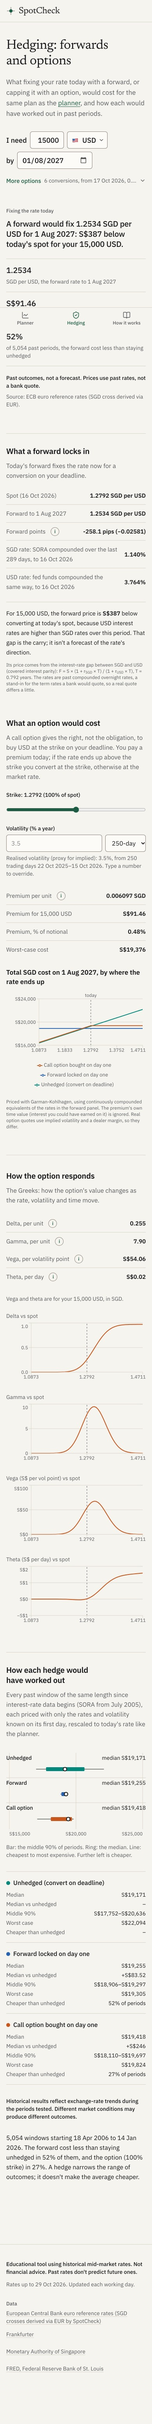
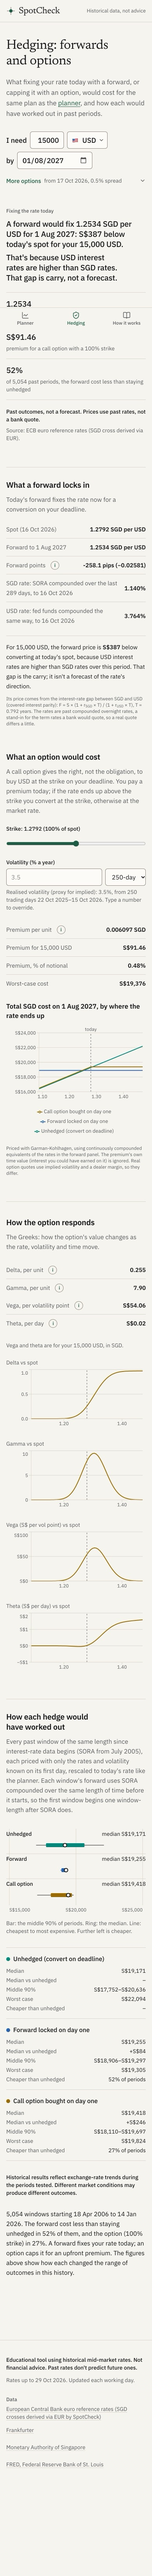
docs: final review round: before/after at 375px, finals, checks
DESIGN.md records the hedge colour mapping, touch readouts and the number
rules. rounds-d holds before (the reviewed preview) and after images for
each fix, the final screenshots, Lighthouse and the parity result.

Changed region(s): [[0.0308, 0.0, 0.9538, 0.9677], [0.8308, 0.4994, 0.9538, 0.5307], [0.8308, 0.1873, 0.8615, 0.2185]]

diff --git a/docs/design/rounds-d/README.md b/docs/design/rounds-d/README.md
@@ -1,0 +1,45 @@
+# Final review round of PR #8
+
+Nineteen fixes from a review on desktop, at 375px and on a real iPhone. `before-375/` is the branch as reviewed: the Cloudflare preview at commit `bca8ee5`, captured at 375×812 (2× pixels) in light and dark. `after-375/` is the same states on the fixed build. `final/` is the usual 390×844 and 1366×768 set for all three pages, light and dark. Full pages are in `../final/`.
+
+| File                   | Shows                                                                                                                |
+| ---------------------- | -------------------------------------------------------------------------------------------------------------------- |
+| `375-planner-top-*`    | The header disclaimer on a phone (5); the converter without empty space (19)                                         |
+| `375-timeline-*`       | The taller timeline with an axis fitted to the data (8)                                                              |
+| `375-period-*`         | The period chart after a tap, with the readout (6), and conversions one per line (9)                                 |
+| `375-comparison-*`     | "S$19,284 (fixed)" (14) and whole-dollar differences (12)                                                            |
+| `375-hedging-top-*`    | The carry reason under the headline (3) and Hedging's own More options (10)                                          |
+| `375-payoff-readout-*` | A tap on the payoff chart: the readout instead of a sticky tooltip (6), round ticks and the option's own colour (15) |
+
+## The fixes
+
+| #   | Before                                                                                             | After                                                                                                                                                                                                                   |
+| --- | -------------------------------------------------------------------------------------------------- | ----------------------------------------------------------------------------------------------------------------------------------------------------------------------------------------------------------------------- |
+| 1   | "A hedge narrows the range of outcomes; it doesn't make the average cheaper."                      | "A forward fixes your rate today; an option caps it for an upfront premium. The figures above show how each changed the range of outcomes in this history."                                                             |
+| 2   | Pairwise sentences ("spreading over 6 conversions had a most expensive case … lower than waiting") | One template per strategy, in the fixed order, against all at once only: median vs all at once, middle 90%, worst case, % of windows cheaper. The target's hit rate is the one extra clause.                            |
+| 3   | The forward headline without a reason                                                              | "That's because USD interest rates are higher than SGD rates. That gap is carry, not a forecast.", directly under it in the same style                                                                                  |
+| 4   | "A real quote differs, and it is only available for USD so far."                                   | "A real quote differs. The Hedging page covers USD only for now."                                                                                                                                                       |
+| 5   | "Historical data, not advice" hidden below 1024px                                                  | Shown at every width (13px on phones); e2e checks it at 375px on all three pages                                                                                                                                        |
+| 6   | Recharts tooltips stuck open after a tap, covering the chart                                       | On touch screens: no floating box; a readout row under the payoff, Greek and period charts shows the tapped values. Payoff chart 288px tall on phones.                                                                  |
+| 7   | "Earlier month" went from 28 Jan to 15 Dec (bucket to bucket)                                      | "One month earlier/later" moves to the same calendar day, or the nearest trading day (28 Jan → 29 Dec, since 28 Dec was a Sunday); unit-tested                                                                          |
+| 8   | A short phone timeline with a S$16k–S$24k axis                                                     | 280px on phones (300px on laptops); the axis fits the data with a 5% margin (S$17k–S$22k)                                                                                                                               |
+| 9   | All of Equal tranches' conversions in one run-on cell                                              | One line each: "14 Jan 2026 · 1.2880"                                                                                                                                                                                   |
+| 10  | Hedging's More options showed conversions and target                                               | Only what Hedging uses: start date and spread                                                                                                                                                                           |
+| 11  | "2.0%"                                                                                             | "2%" everywhere a setting is shown                                                                                                                                                                                      |
+| 12  | "−S$84.95", "within S$84.95" next to whole-dollar costs                                            | One precision per scenario: whole dollars (e.g. "−S$85") unless the scenario costs under S$100 (then cents throughout). Rates, pips, the premium and Greeks keep decimals.                                              |
+| 13  | "Today's mid rate"                                                                                 | "Latest mid rate". The data is not stale: the branch contains every main commit. The ECB publishes around 16:00 CET and the fetch runs at 03:00 UTC the next morning, so the latest rate is the previous working day's. |
+| 14  | "S$19,284–S$19,284"                                                                                | "S$19,284 (fixed)"                                                                                                                                                                                                      |
+| 15  | " : " in tooltips; ticks 1.0894/1.1855/…; the option in Equal tranches' orange                     | ": "; ticks 1.10, 1.20, 1.30, 1.40; the call option in its own validated bronze. Unhedged keeps Wait until deadline's teal and Forward keeps All at once's blue on purpose (DESIGN.md §2).                              |
+| 16  | No explanation of a positive theta                                                                 | The theta tip explains why it can be positive; a unit test pins +S$0.02/day at the money, about +S$1.6/day in the money, and negative when the carry reverses                                                           |
+| 17  | `/hedging` was a 404; the 404 reused the homepage title                                            | `public/_redirects`: `/hedging` → `/advanced` (301), and `/advanced` itself is untouched. The 404 page's title is "Page not found \| SpotCheck".                                                                        |
+| 18  | "SORA from July 2005" with windows from 3 Apr 2006, unexplained                                    | Adds that each window's forward uses SORA compounded over the window's length before it starts, so the first window begins one window-length after SORA does                                                            |
+| 19  | Empty space under More options on a 375px phone                                                    | The converter's minimum height now matches its content at 375px (281px); only phones under 370px reserve the taller height                                                                                              |
+
+## Checks on the final build
+
+- `npm run check`: 356 unit tests; data valid.
+- Playwright: 78 passed. That covers desktop, the Pixel 7 project and a new 375px touch suite (disclaimer, touch readouts, month step, timeline height, conversions per line).
+- axe-core: 0 violations at 390×844 and 1366×768, light and dark, on all three pages.
+- Parity with the live site, same data: identical for USD, JPY and EUR. That is 42 planner figures each, plus all 13 Hedging values for USD.
+- Lighthouse mobile: Planner 96, Hedging 91, How it works 98. Accessibility 100 and CLS 0 on every run.
+- Throttled trace (412px, slow 4G, 4× CPU): no layout shifts on any page, How it works included.

diff --git a/DESIGN.md b/DESIGN.md
@@ -51,6 +51,14 @@ Validated with the dataviz palette checker (lightness band, chroma, colour-blind
 
 The brand green is deliberately not a strategy colour, so no strategy looks "approved".
 
+Hedging reuses two planner colours on purpose and adds one of its own:
+
+| Hedge       | Colour                                   | Why                                                                        |
+| ----------- | ---------------------------------------- | -------------------------------------------------------------------------- |
+| Unhedged    | slot 3 (Wait until deadline)             | It is the same strategy: convert everything on the deadline                |
+| Forward     | slot 1 (All at once)                     | Both fix the whole cost on day one                                         |
+| Call option | `--series-option`: `#9A6B00` / `#B88520` | Its own colour; no planner strategy uses it (validated with the two above) |
+
 ## 3. Typography
 
 Two families, self-hosted with `next/font` (the CSP keeps `font-src 'self'`), one file each:
@@ -72,6 +80,12 @@ Two families, self-hosted with `next/font` (the CSP keeps `font-src 'self'`), on
 | Data medium | Plex       | 500    | 22 / 28             | 20 / 26 | Secondary figures, the converter field |
 
 Sentence case everywhere. No all-caps eyebrows, no letter-spaced labels.
+
+### Numbers
+
+- **Money:** every S$ figure in one scenario uses the same precision: whole dollars when the scenario costs S$100 or more (differences too: "−S$85"), cents when it costs less (15,000 VND is about S$0.74). The exceptions are per-unit rates, pips, the option premium and the Greeks, which keep their decimals.
+- **Settings as percentages:** shown without trailing zeros ("2%", "0.5%").
+- **A fixed cost:** a strategy with no range reads "S$19,321 (fixed)", not "S$19,321–S$19,321".
 
 ## 4. Space, layout and shape
 
@@ -133,7 +147,8 @@ One chart language across both pages:
 - **Lines and bars:** lines 2px. The middle-90% bars are 10px tall with 2px corners, the median dot is 9px with a 2px `--surface` ring, and the full-range whisker is a 1.5px `--muted` line.
 - **Highlight:** hovering or focusing a strategy (a chart row, a legend item, a glance row, a table row) previews it; clicking pins it (`aria-pressed`); clicking again unpins. The others dim over 150ms: chart rows to 30% opacity, table rows to 40–45%, and the timeline lines to 15%. Nothing is ever highlighted automatically.
 - **Tooltips:** `--surface`, 1px `--rule` border, 8px radius and `--shadow-pop`. They show the period in bold, then one row per strategy in the fixed order: swatch, name, cost and its difference from all at once. No row is singled out.
-- **Touch:** on touch screens, dragging horizontally across the timeline scrubs it and lifting selects the period. Vertical drags still scroll the page.
+- **Touch:** on touch screens, dragging horizontally across the timeline scrubs it and lifting selects the period. Vertical drags still scroll the page. The Recharts charts (period detail, payoff, Greeks) show no floating tooltip on touch, because it stays open and covers the chart. A fixed readout row under each chart shows the tapped values instead.
+- **Axes:** rate axes use round ticks (1.10, 1.20, …), kept inside the plotted range. The timeline's cost axis fits the data with a 5% margin rather than stretching to whole tick steps.
 - **States:** a chart's space is held by a `--sunken` block of the same height while it loads. An error replaces it with a one-line message in `--negative`.
 - **Accessibility:** every chart has a text equivalent: the comparison table, the conversions table, a slider with a spoken value, or a summary label.
 

diff --git a/docs/design/lighthouse.md b/docs/design/lighthouse.md
@@ -1,18 +1,18 @@
 # Lighthouse (mobile)
 
-Lighthouse 12.8.2, mobile form factor, simulated throttling (the default), headless Chromium. Runs are against the static build, served with compression by `scripts/serve-out.ts`. Three runs per page on the final build of the neutral revision of PR #8, 1 Nov 2026.
+Lighthouse 12.8.2, mobile form factor, simulated throttling (the default), headless Chromium. Runs are against the static build, served with compression by `scripts/serve-out.ts`. Three runs per page on the final build of the last review round of PR #8, 31 Oct 2026.
 
 | Page         | Run | Performance | Accessibility | Best practices | SEO | FCP   | LCP   | TBT    | CLS |
 | ------------ | --- | ----------- | ------------- | -------------- | --- | ----- | ----- | ------ | --- |
-| Planner      | 1   | 97          | 100           | 100            | 100 | 0.8 s | 2.5 s | 110 ms | 0   |
-| Planner      | 2   | 97          | 100           | 100            | 100 | 0.8 s | 2.6 s | 60 ms  | 0   |
-| Planner      | 3   | 97          | 100           | 100            | 100 | 0.8 s | 2.6 s | 60 ms  | 0   |
-| Hedging      | 1   | 91          | 100           | 100            | 100 | 0.8 s | 3.2 s | 170 ms | 0   |
-| Hedging      | 2   | 92          | 100           | 100            | 100 | 0.8 s | 3.2 s | 150 ms | 0   |
-| Hedging      | 3   | 92          | 100           | 100            | 100 | 0.8 s | 3.2 s | 160 ms | 0   |
-| How it works | 1   | 98          | 100           | 100            | 100 | 0.8 s | 2.5 s | 20 ms  | 0   |
-| How it works | 2   | 98          | 100           | 100            | 100 | 0.8 s | 2.5 s | 20 ms  | 0   |
-| How it works | 3   | 98          | 100           | 100            | 100 | 0.8 s | 2.5 s | 20 ms  | 0   |
+| Planner      | 1   | 96          | 100           | 100            | 100 | 0.8 s | 2.6 s | 150 ms | 0   |
+| Planner      | 2   | 96          | 100           | 100            | 100 | 0.8 s | 2.6 s | 80 ms  | 0   |
+| Planner      | 3   | 96          | 100           | 100            | 100 | 0.8 s | 2.6 s | 90 ms  | 0   |
+| Hedging      | 1   | 91          | 100           | 100            | 100 | 0.8 s | 3.2 s | 190 ms | 0   |
+| Hedging      | 2   | 91          | 100           | 100            | 100 | 0.8 s | 3.2 s | 190 ms | 0   |
+| Hedging      | 3   | 91          | 100           | 100            | 100 | 0.8 s | 3.2 s | 190 ms | 0   |
+| How it works | 1   | 98          | 100           | 100            | 100 | 0.8 s | 2.5 s | 30 ms  | 0   |
+| How it works | 2   | 98          | 100           | 100            | 100 | 0.8 s | 2.5 s | 20 ms  | 0   |
+| How it works | 3   | 98          | 100           | 100            | 100 | 0.8 s | 2.5 s | 20 ms  | 0   |
 
 For comparison, `main` (the live site) scores 93 on both of its pages under the same conditions.
 
@@ -25,7 +25,7 @@ What keeps it there:
 - **Lazy loading:** the combobox, help-tip popovers, outcome timeline and period detail load just after the page. The period detail is the one that pulls in the chart library.
 - **No prefetching** from in-page links.
 
-A throttled trace of How it works records one small shift (0.025): a paragraph re-wraps by one line when IBM Plex Sans replaces its size-matched fallback on a slow first load. Lighthouse's simulated CLS for the page is 0.
+Under the throttled trace used in `rounds-d/README.md` (412px phone, slow 4G, 4× CPU), all three pages record no layout shifts at all. That includes How it works, where IBM Plex Sans used to swap in late and re-wrap a paragraph; it now uses `display: optional`.
 
 Extra checks, at 390×844 and 1366×768, light and dark, on all three pages:
 
